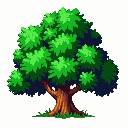
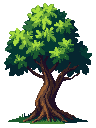
fix arboles

diff --git a/src/main.js b/src/main.js
@@ -8335,6 +8335,10 @@ window.addEventListener('DOMContentLoaded', () => {
         let path = `assets/${name}.png`;
         if (name === 'obj_portal') path = 'assets/map_objects/town_portal.png';
         if (name === 'obj_waypoint') path = 'assets/map_objects/waypoint_hd.png';
+        if (name === 'obj_tree_oak') path = 'assets/obj_tree_oak.png';
+        if (name === 'obj_tree_palm') path = 'assets/obj_tree_palm.png';
+        if (name === 'obj_tree_snowpine') path = 'assets/obj_tree_snowpine.png';
+        if (name === 'obj_tree_dead') path = 'assets/obj_tree_dead.png';
         Assets.load(name, path);
     }
     renderSaveSlots();
